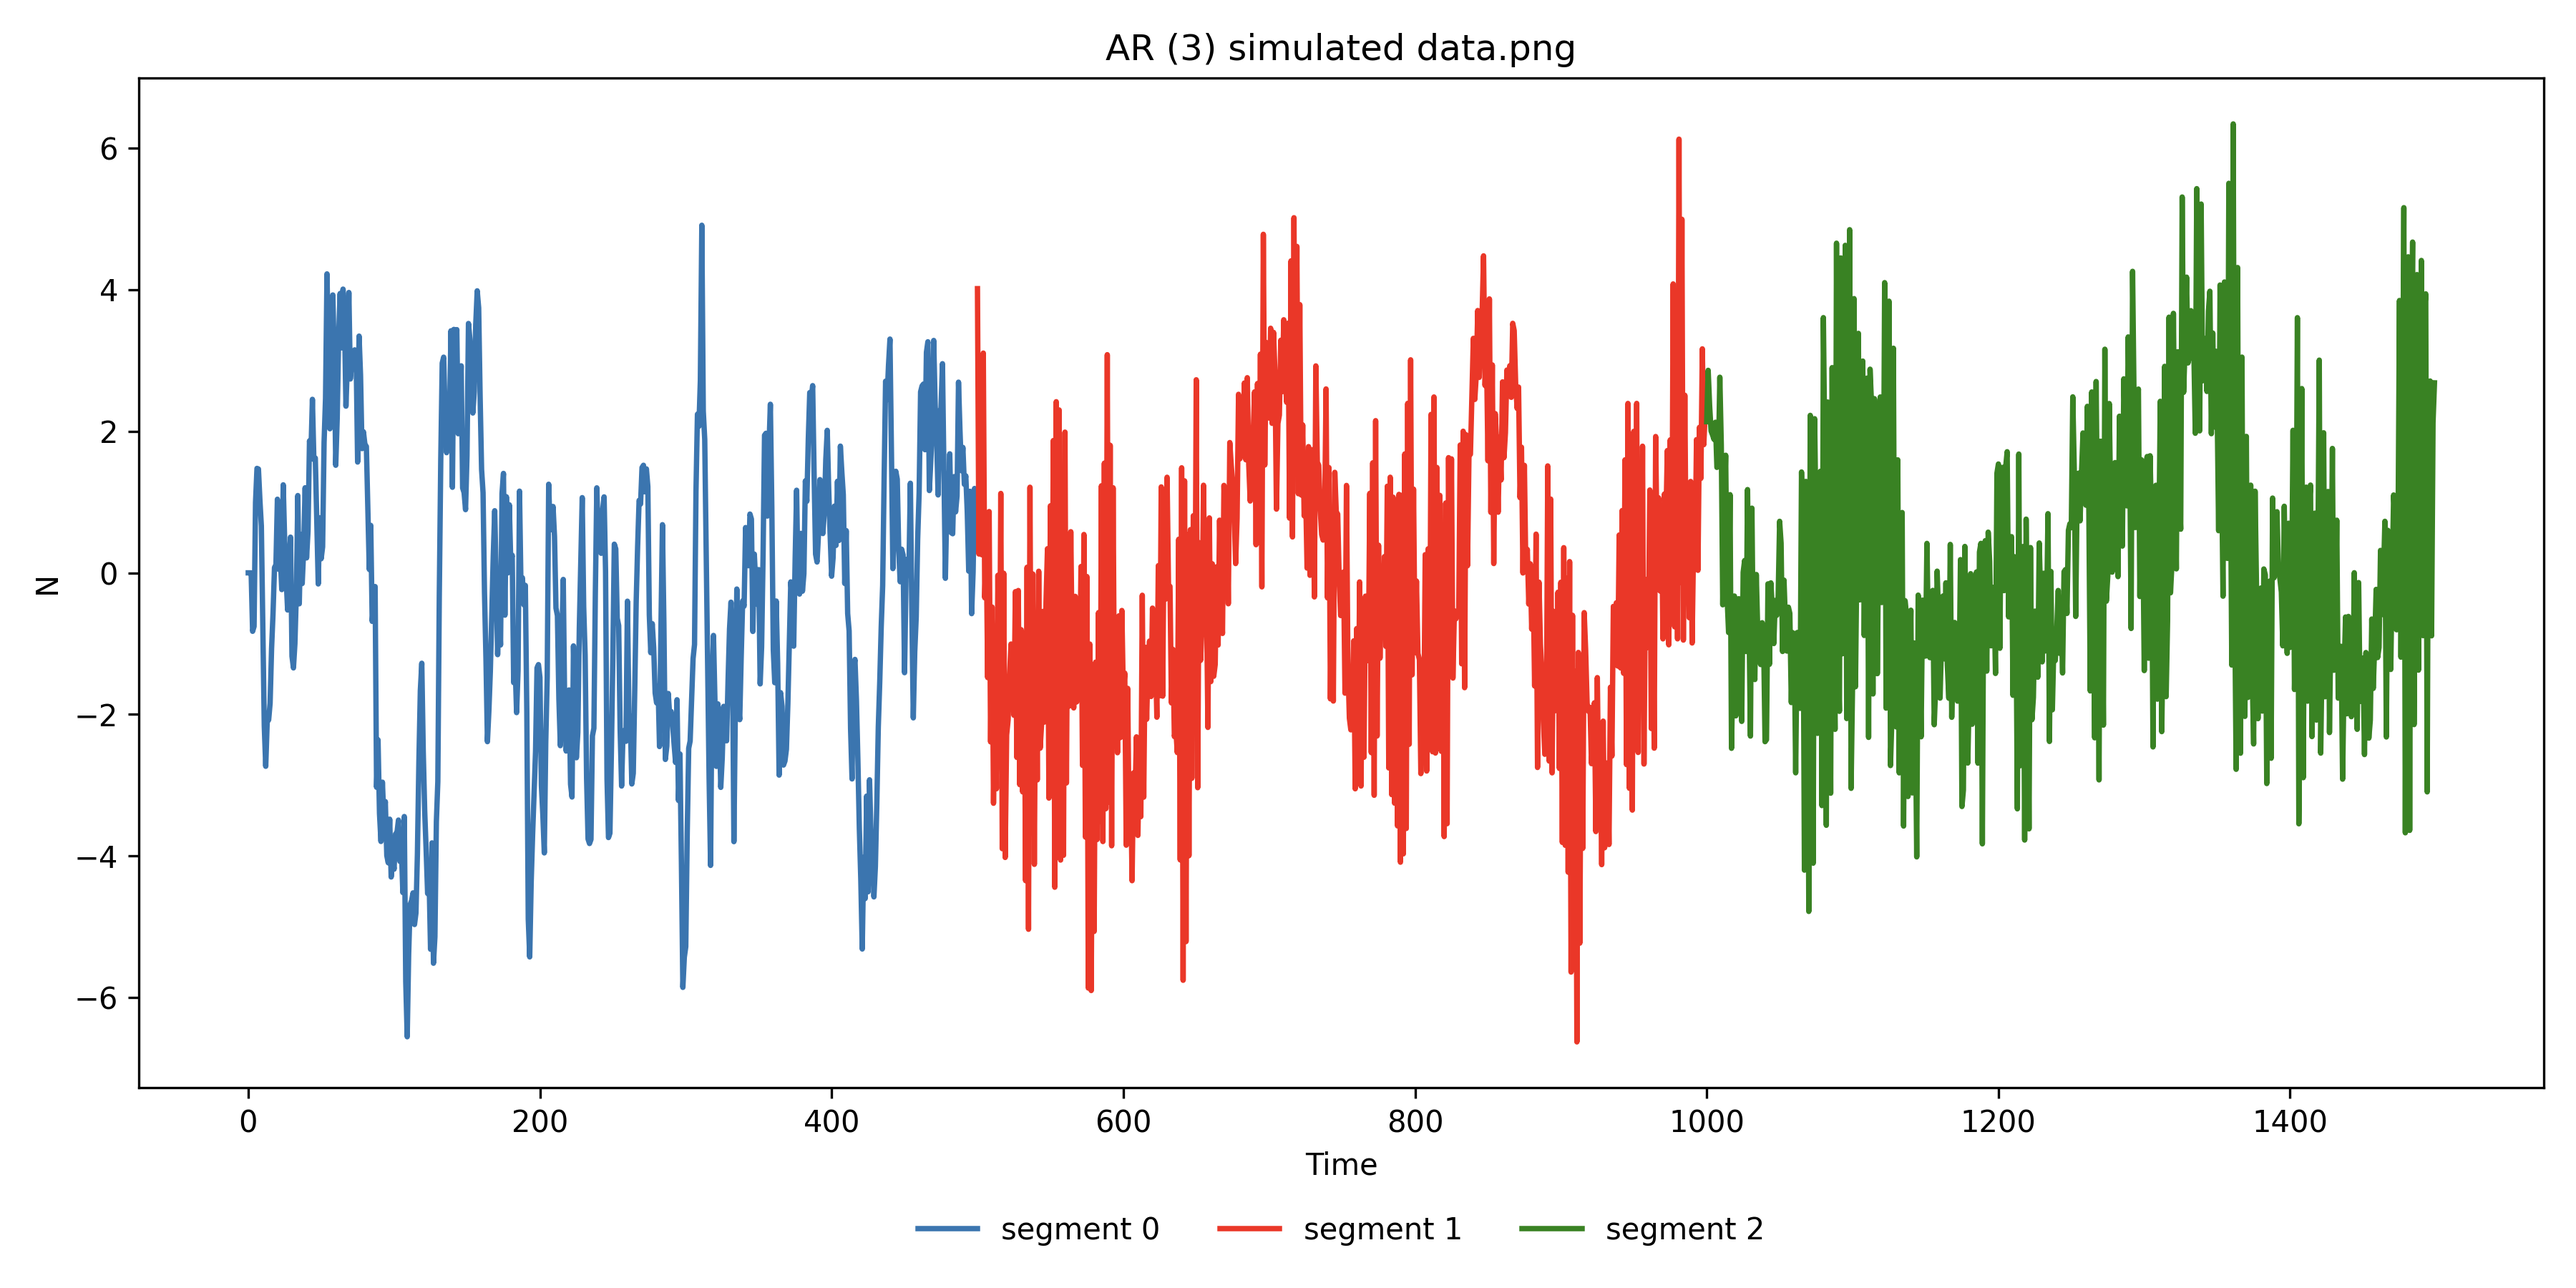
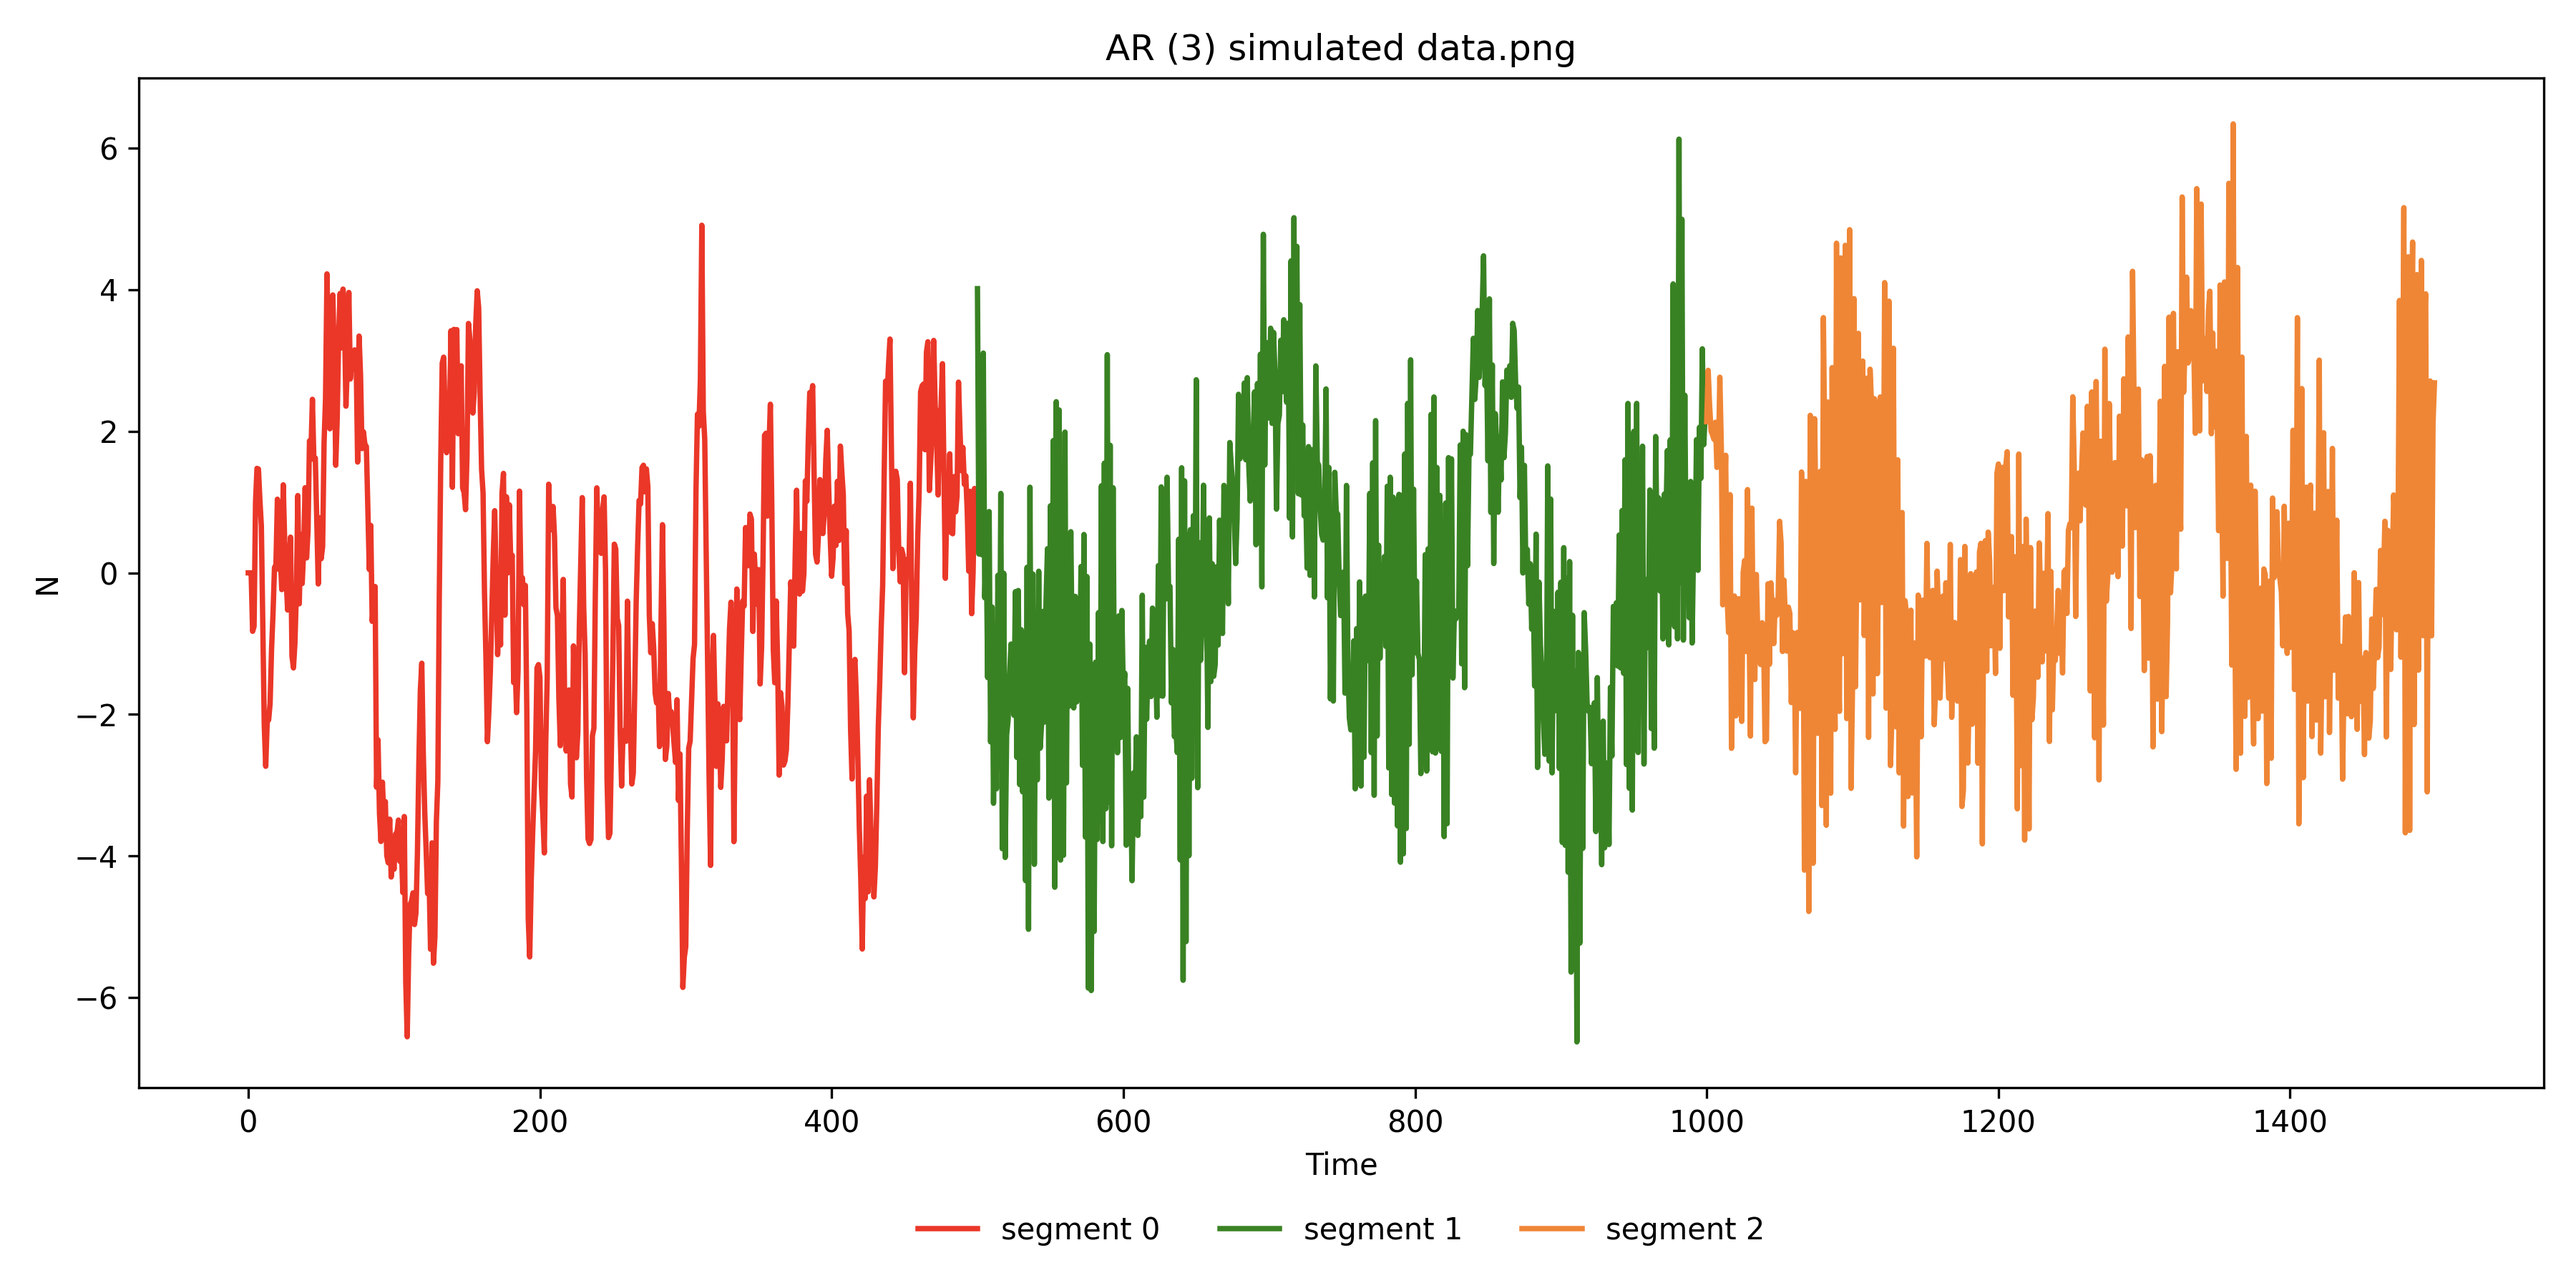
fix: colors for plot, regen readme

Changed region(s): [[0.0933, 0.1244, 0.9644, 0.7778], [0.5911, 0.9333, 0.6222, 0.9644], [0.4667, 0.9333, 0.4978, 0.9644]]

diff --git a/AR_sim_p.py b/AR_sim_p.py
@@ -243,6 +243,6 @@ if __name__ == "__main__":
     df = simulate(n_total, coeffs, change_points, p)
     df.to_csv(f"AR_{p}_simulated_series.csv", index=False)
 
-    plot_time_series(df, colors={0: IDA_COLORS["blue"], 1: IDA_COLORS["red"], 2: IDA_COLORS["green"]},
+    plot_time_series(df, colors={0: IDA_COLORS["red"], 1: IDA_COLORS["green"], 2: IDA_COLORS["orange"]},
                     title=f"AR ({p}) simulated data.png",
                     filename=f"AR_{p}_simulated_series.png")
